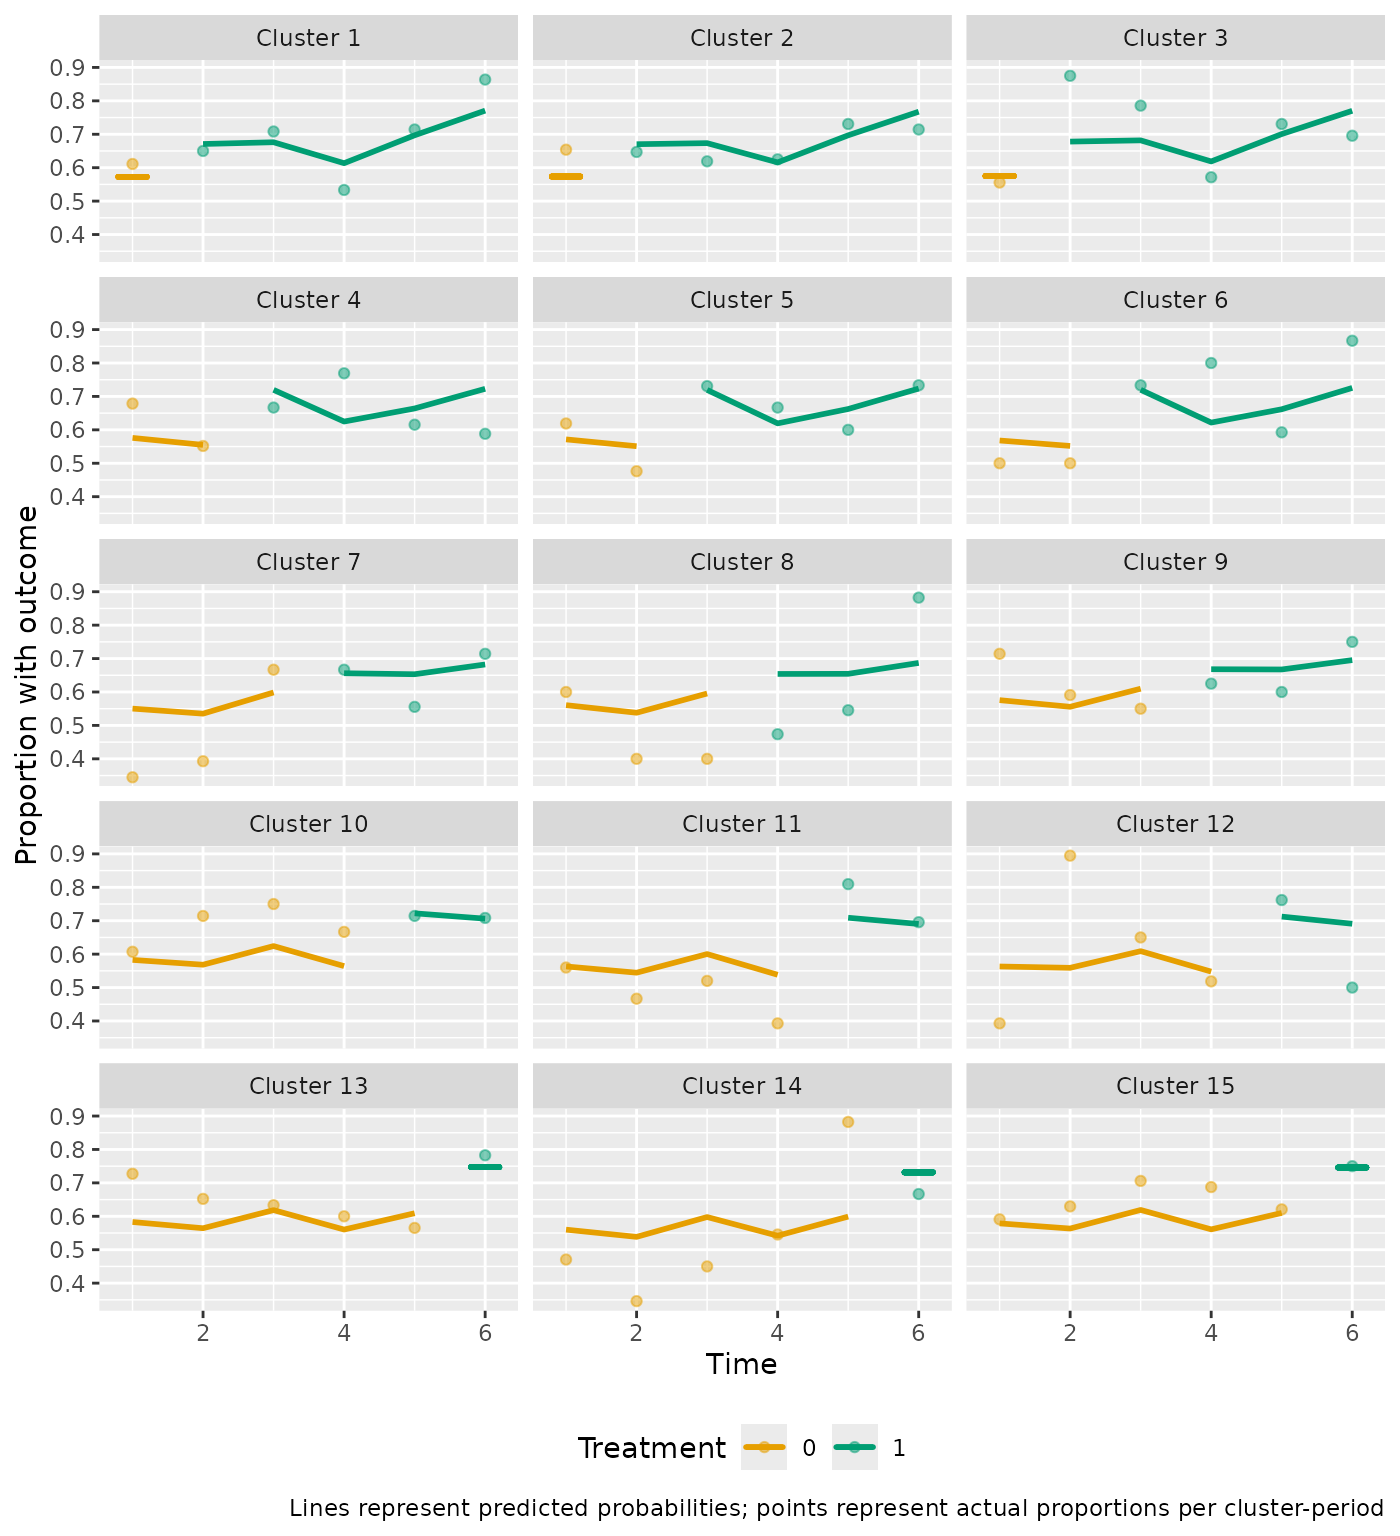
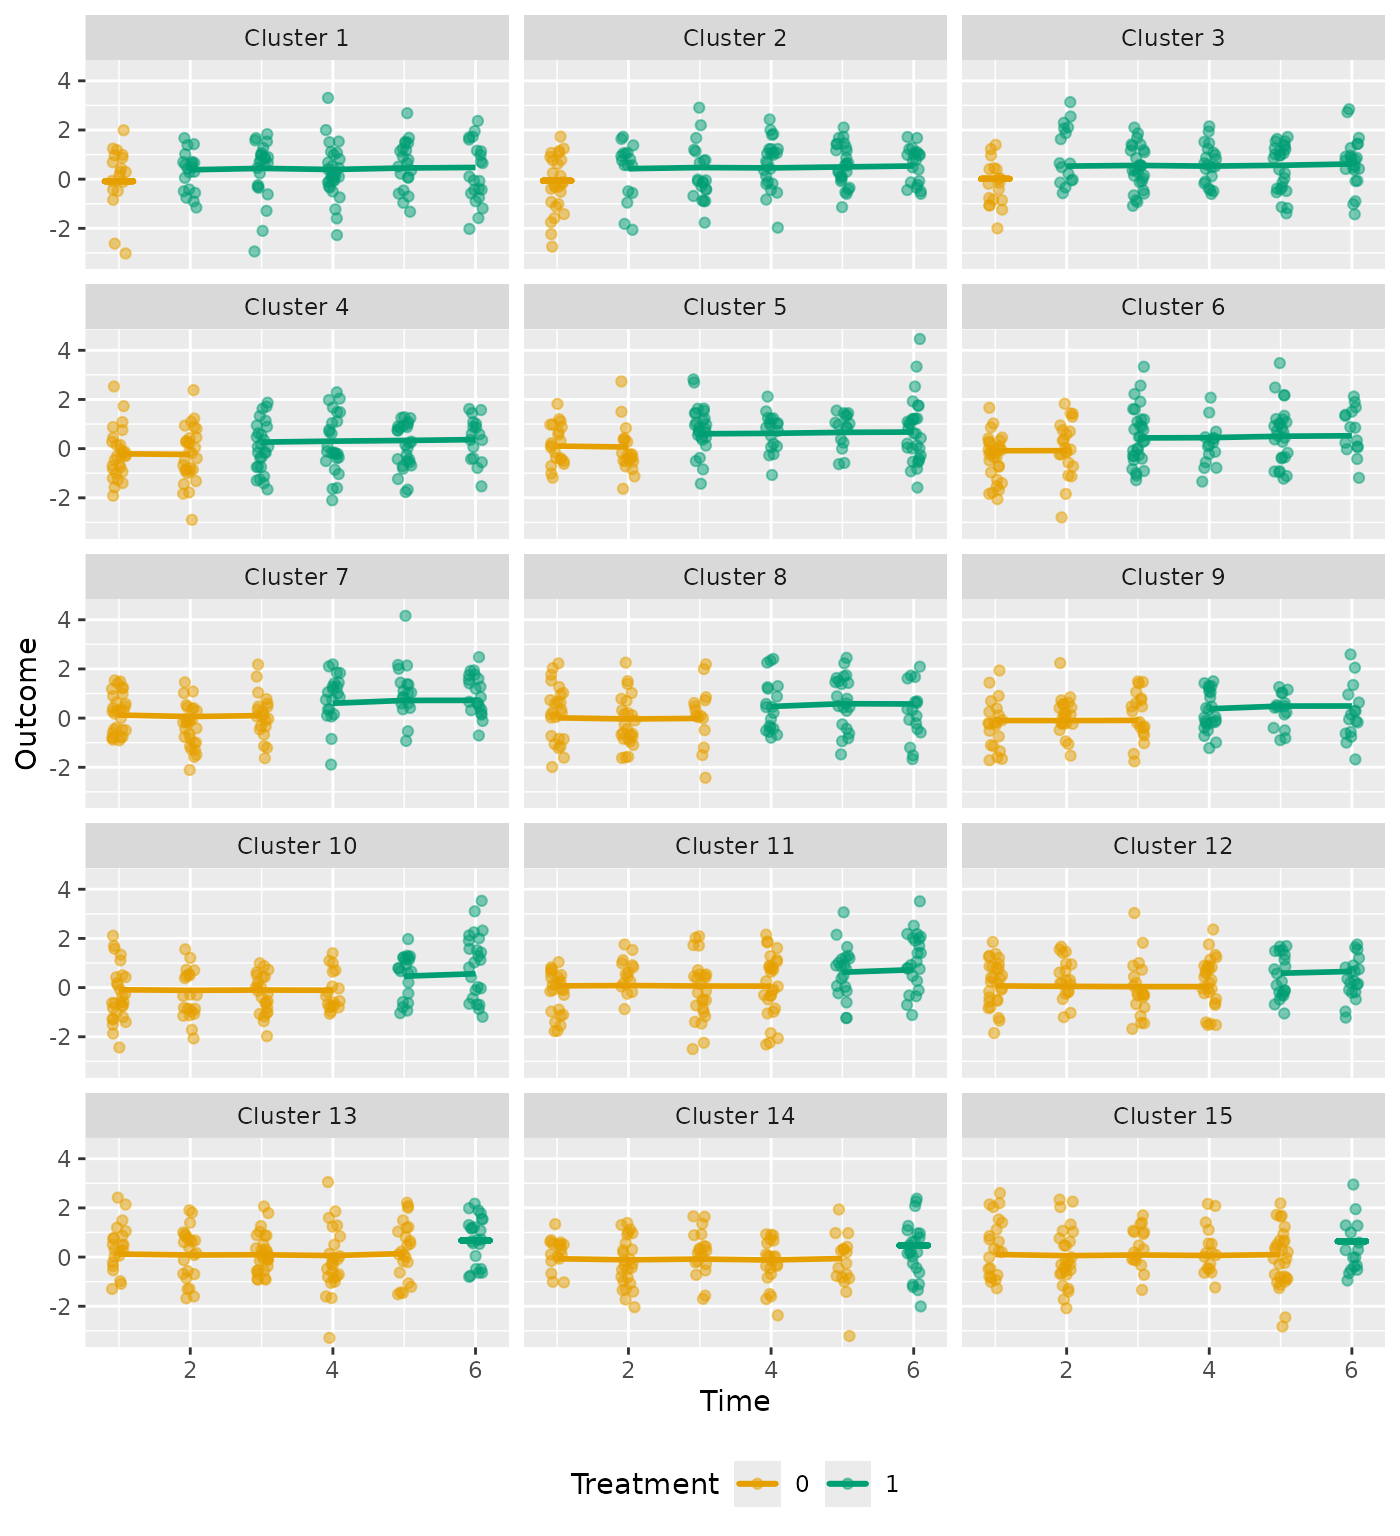
Deploying to gh-pages from @ Avi-Kenny/steppedwedge@396101030ca28e94110b5bb5bf97300fe25015cd 🚀

diff --git a/articles/steppedwedge.html b/articles/steppedwedge.html
@@ -131,7 +131,7 @@ outcome</p>
 <span><span class="co">#&gt; Exp time: "IT", cal time: "categorical"</span></span>
 <span><span class="co">#&gt; TATE (IT) estimate: 0.39</span></span>
 <span><span class="co">#&gt; TATE (IT) 95% confidence interval: 0.123, 0.656</span></span>
-<span><span class="co">#&gt; TATE (IT) p-value: 0.0041307</span></span>
+<span><span class="co">#&gt; TATE (IT) p-value: 0.0041279</span></span>
 <span><span class="co">#&gt; Converged: TRUE</span></span></code></pre></div>
 <p>Repeat the analysis, but including a random effect for cluster only,
 not for cluster-time interaction.</p>
@@ -150,7 +150,7 @@ not for cluster-time interaction.</p>
 <span><span class="co">#&gt; Exp time: "IT", cal time: "categorical"</span></span>
 <span><span class="co">#&gt; TATE (IT) estimate: 0.391</span></span>
 <span><span class="co">#&gt; TATE (IT) 95% confidence interval: 0.128, 0.653</span></span>
-<span><span class="co">#&gt; TATE (IT) p-value: 0.0035093</span></span>
+<span><span class="co">#&gt; TATE (IT) p-value: 0.0035098</span></span>
 <span><span class="co">#&gt; Converged: TRUE</span></span></code></pre></div>
 <p>Repeat the analysis, but using GEE rather than a mixed model.</p>
 <div class="sourceCode" id="cb6"><pre class="downlit sourceCode r">
@@ -186,7 +186,7 @@ estimand, using an Exposure Time Indicator (ETI) model.</p>
 <span><span class="co">#&gt; Exp time: "ETI", cal time: "categorical"</span></span>
 <span><span class="co">#&gt; TATE estimate: 0.418</span></span>
 <span><span class="co">#&gt; TATE 95% confidence interval: 0.102, 0.733</span></span>
-<span><span class="co">#&gt; TATE p-value: 0.0094832</span></span>
+<span><span class="co">#&gt; TATE p-value: 0.0094819</span></span>
 <span><span class="co">#&gt; Converged: TRUE</span></span></code></pre></div>
 <p>Mixed model, with Time Average Treatment Effect (TATE) as the
 estimand, using a Natural Cubic Splines (NCS) model.</p>
@@ -204,14 +204,43 @@ estimand, using a Natural Cubic Splines (NCS) model.</p>
 <span><span class="co">#&gt; Exp time: "NCS", cal time: "categorical"</span></span>
 <span><span class="co">#&gt; TATE estimate: 0.421</span></span>
 <span><span class="co">#&gt; TATE 95% confidence interval: 0.104, 0.738</span></span>
-<span><span class="co">#&gt; TATE p-value: 0.0092387</span></span>
+<span><span class="co">#&gt; TATE p-value: 0.0092447</span></span>
 <span><span class="co">#&gt; Converged: TRUE</span></span></code></pre></div>
+<p>Mixed model using a Delayed Constant Treatment (DCT) model. This
+model assumes the treatment effect during the first <code>w</code>
+exposure time periods is a nuisance “washout” effect, after which the
+treatment stabilizes to a constant effect
+<math display="inline" xmlns="http://www.w3.org/1998/Math/MathML"><semantics><mi>δ</mi><annotation encoding="application/x-tex">\delta</annotation></semantics></math>.
+Set <code>w</code> via <code><a href="../reference/params.html">params()</a></code>.</p>
+<div class="sourceCode" id="cb9"><pre class="downlit sourceCode r">
+<code class="sourceCode R"><span><span class="va">analysis_5</span> <span class="op">&lt;-</span> <span class="fu"><a href="../reference/analyze.html">analyze</a></span><span class="op">(</span></span>
+<span>  dat <span class="op">=</span> <span class="va">dat</span>,</span>
+<span>  method <span class="op">=</span> <span class="st">"mixed"</span>,</span>
+<span>  estimand_type <span class="op">=</span> <span class="st">"TATE"</span>,</span>
+<span>  exp_time <span class="op">=</span> <span class="st">"DCT"</span>,</span>
+<span>  family <span class="op">=</span> <span class="va">binomial</span>,</span>
+<span>  advanced <span class="op">=</span> <span class="fu"><a href="../reference/params.html">params</a></span><span class="op">(</span>w <span class="op">=</span> <span class="fl">2</span><span class="op">)</span></span>
+<span><span class="op">)</span></span>
+<span></span>
+<span><span class="fu"><a href="https://rdrr.io/r/base/print.html" class="external-link">print</a></span><span class="op">(</span><span class="va">analysis_5</span><span class="op">)</span></span>
+<span><span class="co">#&gt; Mixed model with random effects for cluster and time</span></span>
+<span><span class="co">#&gt; Exp time: "DCT", cal time: "categorical"</span></span>
+<span><span class="co">#&gt; TATE (DCT) estimate: 0.321</span></span>
+<span><span class="co">#&gt; TATE (DCT) 95% confidence interval: -0.05, 0.692</span></span>
+<span><span class="co">#&gt; TATE (DCT) p-value: 0.089885</span></span>
+<span><span class="co">#&gt; Converged: TRUE</span></span></code></pre></div>
+<p>The returned <code>te_est</code> is the estimate of
+<math display="inline" xmlns="http://www.w3.org/1998/Math/MathML"><semantics><mi>δ</mi><annotation encoding="application/x-tex">\delta</annotation></semantics></math>
+— the constant treatment effect after the washout period. The
+washout-period coefficients
+(<math display="inline" xmlns="http://www.w3.org/1998/Math/MathML"><semantics><mrow><msub><mi>δ</mi><mn>1</mn></msub><mo>,</mo><msub><mi>δ</mi><mn>2</mn></msub></mrow><annotation encoding="application/x-tex">\delta_1, \delta_2</annotation></semantics></math>)
+are estimated internally but treated as nuisance parameters.</p>
 <div class="section level3">
 <h3 id="continuous-outcome">Continuous outcome<a class="anchor" aria-label="anchor" href="#continuous-outcome"></a>
 </h3>
 <p>Mixed model, with Time Average Treament Effect (TATE) as the
 estimand, using a Natural Cubic Splines (NCS) model.</p>
-<div class="sourceCode" id="cb9"><pre class="downlit sourceCode r">
+<div class="sourceCode" id="cb10"><pre class="downlit sourceCode r">
 <code class="sourceCode R"><span></span>
 <span><span class="va">dat_cont</span> <span class="op">&lt;-</span> <span class="fu"><a href="../reference/load_data.html">load_data</a></span><span class="op">(</span></span>
 <span>  time <span class="op">=</span> <span class="st">"period"</span>,</span>
@@ -245,7 +274,7 @@ estimand, using a Natural Cubic Splines (NCS) model.</p>
 <p>When loading data where the outcome is binomial, specify the names of
 the “# of successes” and “# of trials” variables as the
 <code>outcome</code> argument.</p>
-<div class="sourceCode" id="cb10"><pre class="downlit sourceCode r">
+<div class="sourceCode" id="cb11"><pre class="downlit sourceCode r">
 <code class="sourceCode R"><span></span>
 <span><span class="va">dat_binom</span> <span class="op">&lt;-</span> <span class="fu"><a href="../reference/load_data.html">load_data</a></span><span class="op">(</span></span>
 <span>  time <span class="op">=</span><span class="st">"period"</span>,</span>
@@ -258,7 +287,7 @@ the “# of successes” and “# of trials” variables as the
 <span><span class="co">#&gt; Stepped wedge dataset loaded. Discrete time design with 15 clusters, 5 sequences, and 6 time points.</span></span></code></pre></div>
 <p>Mixed model, with Time Average Treament Effect (TATE) as the
 estimand, using an Exposure Time Indicator (ETI) model.</p>
-<div class="sourceCode" id="cb11"><pre class="downlit sourceCode r">
+<div class="sourceCode" id="cb12"><pre class="downlit sourceCode r">
 <code class="sourceCode R"><span></span>
 <span><span class="va">analysis_binom</span> <span class="op">&lt;-</span> <span class="fu"><a href="../reference/analyze.html">analyze</a></span><span class="op">(</span></span>
 <span>  dat <span class="op">=</span> <span class="va">dat_binom</span>,</span>
@@ -282,7 +311,7 @@ estimand, using an Exposure Time Indicator (ETI) model.</p>
 </h2>
 <p>The <code>plot_effect_curve</code> function plots effect estimates by
 exposure time for one or more <code>analyze</code> objects.</p>
-<div class="sourceCode" id="cb12"><pre class="downlit sourceCode r">
+<div class="sourceCode" id="cb13"><pre class="downlit sourceCode r">
 <code class="sourceCode R"><span></span>
 <span><span class="va">IT_model</span> <span class="op">&lt;-</span> <span class="fu"><a href="../reference/analyze.html">analyze</a></span><span class="op">(</span></span>
 <span>  dat <span class="op">=</span> <span class="va">dat_cont</span>, method <span class="op">=</span> <span class="st">"mixed"</span>, estimand_type <span class="op">=</span> <span class="st">"TATE"</span>,</span>
@@ -297,9 +326,14 @@ exposure time for one or more <code>analyze</code> objects.</p>
 <span>  estimand_time <span class="op">=</span> <span class="fu"><a href="https://rdrr.io/r/base/c.html" class="external-link">c</a></span><span class="op">(</span><span class="fl">1</span>, <span class="fl">4</span><span class="op">)</span>, exp_time <span class="op">=</span> <span class="st">"NCS"</span>, </span>
 <span>  advanced <span class="op">=</span> <span class="fu"><a href="../reference/params.html">params</a></span><span class="op">(</span>n_knots_exp <span class="op">=</span> <span class="fl">4</span><span class="op">)</span></span>
 <span><span class="op">)</span></span>
+<span><span class="va">DCT_model</span> <span class="op">&lt;-</span> <span class="fu"><a href="../reference/analyze.html">analyze</a></span><span class="op">(</span></span>
+<span>  dat <span class="op">=</span> <span class="va">dat_cont</span>, method <span class="op">=</span> <span class="st">"mixed"</span>, estimand_type <span class="op">=</span> <span class="st">"TATE"</span>,</span>
+<span>  estimand_time <span class="op">=</span> <span class="fu"><a href="https://rdrr.io/r/base/c.html" class="external-link">c</a></span><span class="op">(</span><span class="fl">1</span>, <span class="fl">4</span><span class="op">)</span>, exp_time <span class="op">=</span> <span class="st">"DCT"</span>,</span>
+<span>  advanced <span class="op">=</span> <span class="fu"><a href="../reference/params.html">params</a></span><span class="op">(</span>w <span class="op">=</span> <span class="fl">2</span><span class="op">)</span></span>
+<span><span class="op">)</span></span>
 <span></span>
-<span><span class="fu"><a href="../reference/plot_effect_curves.html">plot_effect_curves</a></span><span class="op">(</span><span class="va">IT_model</span>, <span class="va">NCS_4_model</span>, <span class="va">ETI_model</span>, facet_nrow <span class="op">=</span> <span class="fl">1</span><span class="op">)</span></span></code></pre></div>
-<p><img src="steppedwedge_files/figure-html/unnamed-chunk-13-1.png" class="r-plt" alt="" width="700"></p>
+<span><span class="fu"><a href="../reference/plot_effect_curves.html">plot_effect_curves</a></span><span class="op">(</span><span class="va">IT_model</span>, <span class="va">ETI_model</span>, <span class="va">NCS_4_model</span>, <span class="va">DCT_model</span>, facet_nrow <span class="op">=</span> <span class="fl">2</span><span class="op">)</span></span></code></pre></div>
+<p><img src="steppedwedge_files/figure-html/unnamed-chunk-14-1.png" class="r-plt" alt="" width="700"></p>
 </div>
 <div class="section level2">
 <h2 id="plotting-cluster-charts">Plotting cluster charts<a class="anchor" aria-label="anchor" href="#plotting-cluster-charts"></a>
@@ -312,11 +346,11 @@ object.</p>
 </h3>
 <p>For continuous outcomes, the actual outcomes are jittered, with the
 predicted outcomes represented by the plotted line:</p>
-<div class="sourceCode" id="cb13"><pre class="downlit sourceCode r">
+<div class="sourceCode" id="cb14"><pre class="downlit sourceCode r">
 <code class="sourceCode R"><span></span>
 <span><span class="fu"><a href="../reference/plot_clusters.html">plot_clusters</a></span><span class="op">(</span><span class="va">analysis_6</span>, ncol <span class="op">=</span> <span class="fl">3</span><span class="op">)</span></span>
 <span><span class="co">#&gt; $cluster_chart</span></span></code></pre></div>
-<p><img src="steppedwedge_files/figure-html/unnamed-chunk-14-1.png" class="r-plt" alt="" width="700"></p>
+<p><img src="steppedwedge_files/figure-html/unnamed-chunk-15-1.png" class="r-plt" alt="" width="700"></p>
 </div>
 <div class="section level3">
 <h3 id="binary-outcome">Binary outcome<a class="anchor" aria-label="anchor" href="#binary-outcome"></a>
@@ -324,11 +358,11 @@ predicted outcomes represented by the plotted line:</p>
 <p>For binary outcomes, the observed probability for each cluster period
 is plotted as a point, with the predicted probabilities represented by
 the plotted line:</p>
-<div class="sourceCode" id="cb14"><pre class="downlit sourceCode r">
+<div class="sourceCode" id="cb15"><pre class="downlit sourceCode r">
 <code class="sourceCode R"><span></span>
 <span><span class="fu"><a href="../reference/plot_clusters.html">plot_clusters</a></span><span class="op">(</span><span class="va">analysis_4</span>, ncol <span class="op">=</span> <span class="fl">3</span><span class="op">)</span></span>
 <span><span class="co">#&gt; $cluster_chart</span></span></code></pre></div>
-<p><img src="steppedwedge_files/figure-html/unnamed-chunk-15-1.png" class="r-plt" alt="" width="700"></p>
+<p><img src="steppedwedge_files/figure-html/unnamed-chunk-16-1.png" class="r-plt" alt="" width="700"></p>
 </div>
 </div>
   </main><aside class="col-md-3"><nav id="toc" aria-label="Table of contents"><h2>On this page</h2>

diff --git a/reference/analyze.html b/reference/analyze.html
@@ -177,6 +177,13 @@ are exponentiated.</p>
 <span>estimand_type <span class="op">=</span> <span class="st">"TATE"</span>, estimand_time <span class="op">=</span> <span class="fu"><a href="https://rdrr.io/r/base/c.html" class="external-link">c</a></span><span class="op">(</span><span class="fl">1</span>, <span class="fl">4</span><span class="op">)</span>, exp_time <span class="op">=</span> <span class="st">"ETI"</span><span class="op">)</span></span>
 <span></span>
 <span><span class="va">results_pte_bin</span></span>
+<span></span>
+<span><span class="co"># Analysis example 5: TATE estimand using the Delayed Constant Treatment (DCT) model,</span></span>
+<span><span class="co"># with a washout period of w = 2 exposure times</span></span>
+<span><span class="va">results_tate_dct</span> <span class="op">&lt;-</span> <span class="fu">analyze</span><span class="op">(</span>dat <span class="op">=</span> <span class="va">test_data</span>, method <span class="op">=</span> <span class="st">"mixed"</span>, estimand_type <span class="op">=</span> <span class="st">"TATE"</span>,</span>
+<span>estimand_time <span class="op">=</span> <span class="fu"><a href="https://rdrr.io/r/base/c.html" class="external-link">c</a></span><span class="op">(</span><span class="fl">1</span>, <span class="fl">4</span><span class="op">)</span>, exp_time <span class="op">=</span> <span class="st">"DCT"</span>, advanced <span class="op">=</span> <span class="fu"><a href="params.html">params</a></span><span class="op">(</span>w <span class="op">=</span> <span class="fl">2</span><span class="op">)</span><span class="op">)</span></span>
+<span></span>
+<span><span class="va">results_tate_dct</span></span>
 <span></span></code></pre></div>
     </div>
   </main><aside class="col-md-3"><nav id="toc" aria-label="Table of contents"><h2>On this page</h2>

diff --git a/reference/params.html b/reference/params.html
@@ -113,7 +113,7 @@ intercept for cluster are correlated.</p></dd>
 <span>treatment <span class="op">=</span> <span class="st">"trt"</span>, outcome <span class="op">=</span> <span class="st">"outcome_bin"</span>, data <span class="op">=</span> <span class="va">sw_data_example</span><span class="op">)</span></span>
 <span></span>
 <span><span class="fu"><a href="analyze.html">analyze</a></span><span class="op">(</span>dat <span class="op">=</span> <span class="va">dat</span>, method <span class="op">=</span> <span class="st">"mixed"</span>, estimand_type <span class="op">=</span> <span class="st">"TATE"</span>,  exp_time <span class="op">=</span> <span class="st">"NCS"</span>,</span>
-<span>family <span class="op">=</span> <span class="va">binomial</span><span class="op">)</span></span>
+<span>family <span class="op">=</span> <span class="va">binomial</span>, advanced <span class="op">=</span> <span class="fu">params</span><span class="op">(</span>var_est <span class="op">=</span> <span class="st">"robust"</span><span class="op">)</span><span class="op">)</span></span>
 <span></span></code></pre></div>
     </div>
   </main><aside class="col-md-3"><nav id="toc" aria-label="Table of contents"><h2>On this page</h2>

diff --git a/articles/steppedwedge.md b/articles/steppedwedge.md
@@ -73,7 +73,7 @@ print(analysis_1)
 #> Exp time: "IT", cal time: "categorical"
 #> TATE (IT) estimate: 0.39
 #> TATE (IT) 95% confidence interval: 0.123, 0.656
-#> TATE (IT) p-value: 0.0041307
+#> TATE (IT) p-value: 0.0041279
 #> Converged: TRUE
 ```
 
@@ -96,7 +96,7 @@ print(analysis_1b)
 #> Exp time: "IT", cal time: "categorical"
 #> TATE (IT) estimate: 0.391
 #> TATE (IT) 95% confidence interval: 0.128, 0.653
-#> TATE (IT) p-value: 0.0035093
+#> TATE (IT) p-value: 0.0035098
 #> Converged: TRUE
 ```
 
@@ -140,7 +140,7 @@ print(analysis_3)
 #> Exp time: "ETI", cal time: "categorical"
 #> TATE estimate: 0.418
 #> TATE 95% confidence interval: 0.102, 0.733
-#> TATE p-value: 0.0094832
+#> TATE p-value: 0.0094819
 #> Converged: TRUE
 ```
 
@@ -162,9 +162,40 @@ print(analysis_4)
 #> Exp time: "NCS", cal time: "categorical"
 #> TATE estimate: 0.421
 #> TATE 95% confidence interval: 0.104, 0.738
-#> TATE p-value: 0.0092387
+#> TATE p-value: 0.0092447
 #> Converged: TRUE
 ```
+
+Mixed model using a Delayed Constant Treatment (DCT) model. This model
+assumes the treatment effect during the first `w` exposure time periods
+is a nuisance “washout” effect, after which the treatment stabilizes to
+a constant effect $`\delta`$. Set `w` via
+[`params()`](https://avi-kenny.github.io/steppedwedge/reference/params.md).
+
+``` r
+
+analysis_5 <- analyze(
+  dat = dat,
+  method = "mixed",
+  estimand_type = "TATE",
+  exp_time = "DCT",
+  family = binomial,
+  advanced = params(w = 2)
+)
+
+print(analysis_5)
+#> Mixed model with random effects for cluster and time
+#> Exp time: "DCT", cal time: "categorical"
+#> TATE (DCT) estimate: 0.321
+#> TATE (DCT) 95% confidence interval: -0.05, 0.692
+#> TATE (DCT) p-value: 0.089885
+#> Converged: TRUE
+```
+
+The returned `te_est` is the estimate of $`\delta`$ — the constant
+treatment effect after the washout period. The washout-period
+coefficients ($`\delta_1, \delta_2`$) are estimated internally but
+treated as nuisance parameters.
 
 ### Continuous outcome
 
@@ -265,11 +296,16 @@ NCS_4_model <- analyze(
   estimand_time = c(1, 4), exp_time = "NCS", 
   advanced = params(n_knots_exp = 4)
 )
+DCT_model <- analyze(
+  dat = dat_cont, method = "mixed", estimand_type = "TATE",
+  estimand_time = c(1, 4), exp_time = "DCT",
+  advanced = params(w = 2)
+)
 
-plot_effect_curves(IT_model, NCS_4_model, ETI_model, facet_nrow = 1)
+plot_effect_curves(IT_model, ETI_model, NCS_4_model, DCT_model, facet_nrow = 2)
 ```
 
-![](steppedwedge_files/figure-html/unnamed-chunk-13-1.png)
+![](steppedwedge_files/figure-html/unnamed-chunk-14-1.png)
 
 ## Plotting cluster charts
 
@@ -288,7 +324,7 @@ plot_clusters(analysis_6, ncol = 3)
 #> $cluster_chart
 ```
 
-![](steppedwedge_files/figure-html/unnamed-chunk-14-1.png)
+![](steppedwedge_files/figure-html/unnamed-chunk-15-1.png)
 
 ### Binary outcome
 
@@ -303,4 +339,4 @@ plot_clusters(analysis_4, ncol = 3)
 #> $cluster_chart
 ```
 
-![](steppedwedge_files/figure-html/unnamed-chunk-15-1.png)
+![](steppedwedge_files/figure-html/unnamed-chunk-16-1.png)

diff --git a/reference/analyze.md b/reference/analyze.md
@@ -140,4 +140,11 @@ results_pte_bin <- analyze(dat = test_data_bin, family = binomial, method = "mix
 estimand_type = "TATE", estimand_time = c(1, 4), exp_time = "ETI")
 
 results_pte_bin
+
+# Analysis example 5: TATE estimand using the Delayed Constant Treatment (DCT) model,
+# with a washout period of w = 2 exposure times
+results_tate_dct <- analyze(dat = test_data, method = "mixed", estimand_type = "TATE",
+estimand_time = c(1, 4), exp_time = "DCT", advanced = params(w = 2))
+
+results_tate_dct
 ```

diff --git a/reference/params.md b/reference/params.md
@@ -76,5 +76,5 @@ dat <- load_data(time = "period", cluster_id = "cluster", individual_id = NULL,
 treatment = "trt", outcome = "outcome_bin", data = sw_data_example)
 
 analyze(dat = dat, method = "mixed", estimand_type = "TATE",  exp_time = "NCS",
-family = binomial)
+family = binomial, advanced = params(var_est = "robust"))
 ```